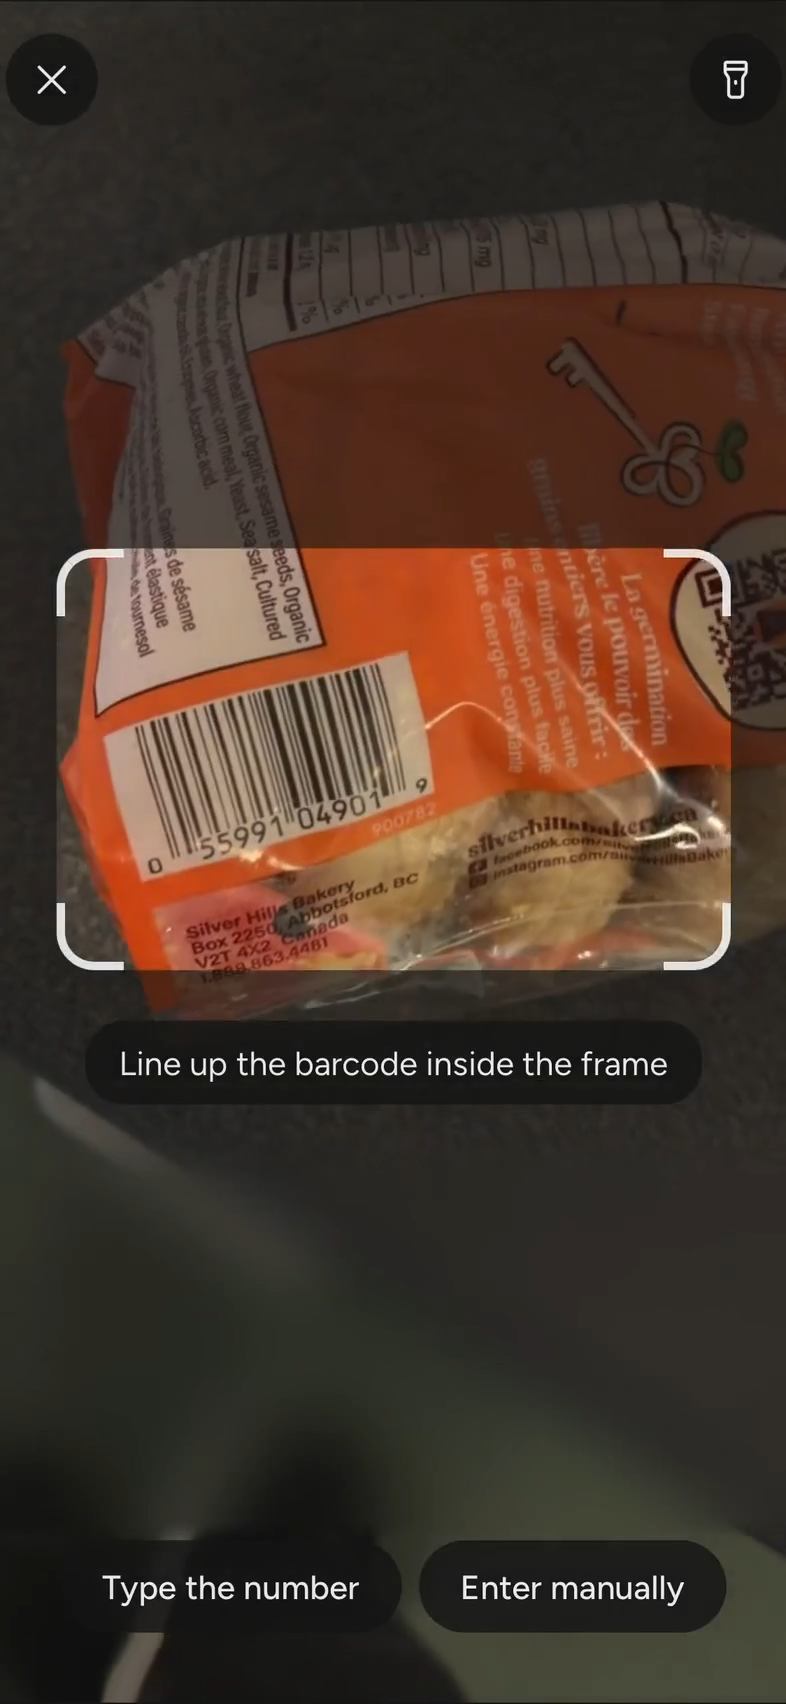
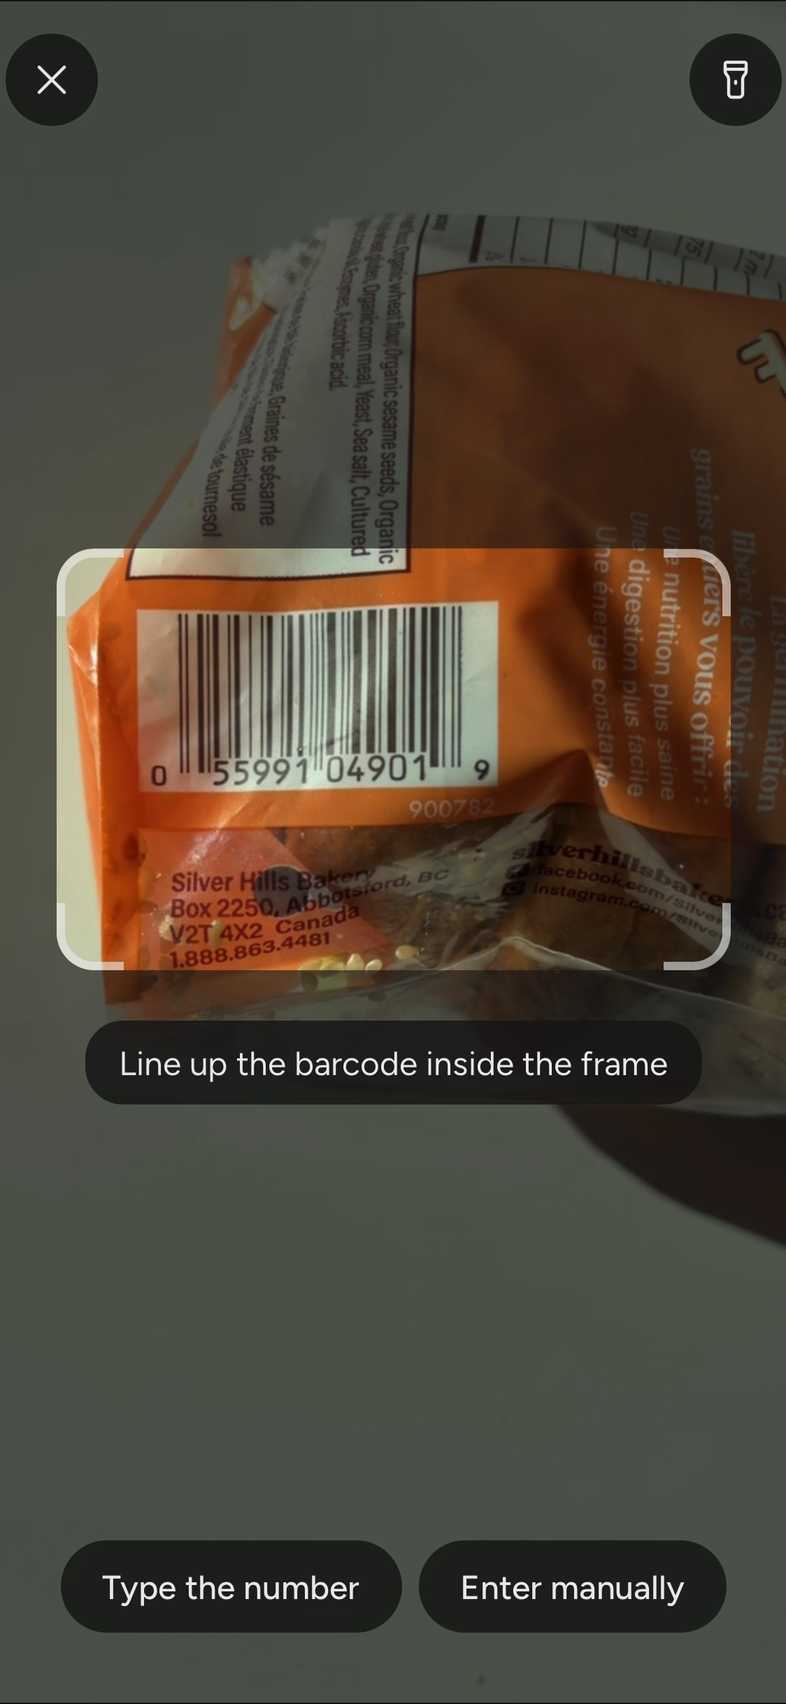
Scan step: frame from the Nov 25 re-recording

diff --git a/public/media/SOURCES.md b/public/media/SOURCES.md
@@ -10,7 +10,7 @@ an embedded text chunk (`impeccable embed-prompt --read <file>`).
 | `bitewise-loop-poster-{dark,light}.png` | Frame at 4.6 s of the loop videos (playback starts there) |
 | `bitewise-today-{dark,light}.png` | Frames at 5.0 s (dark tour) and 5.7 s (light tour with the real scan) |
 | `bitewise-swap-{dark,light}.png` | Frames at 25.3 s (dark tour) and 24.8 s (light tour) |
-| `bitewise-scan.png` | Frame at 60.8 s of `bitewise-demo-light-real-scan.mp4`: a real iPhone barcode scan, used in both themes |
+| `bitewise-scan.png` | Frame at 62.1 s of `bitewise-demo-light-real-scan.mp4` (the Nov 25 re-recording): a real iPhone barcode scan, used in both themes |
 | `bitewise-cost-{dark,light}.png` | Frames at 53.6 s (dark tour) and 53.7 s (light tour) |
 | `ascend-today-{dark,light}.png` | `habit-tracker/docs/screenshots/feature-3/today-mid-hold-*.png` (Playwright, 390 × 844 @3) |
 | `orbit-map-{dark,light}.png` | `network-crm/docs/screenshots/feature-5/map-*.png` (Playwright, 390 × 844 @3) |

diff --git a/plans/portfolio.md b/plans/portfolio.md
@@ -326,6 +326,8 @@ remove Niagara Parks, the Unity racing game and the Spotify display. Round 3: ke
    with the lookup sheet already open, which the design-critic rated its top issue; the scan
    step now uses the light recording's full-bleed camera frame in both themes, as in round 1.
    `bitewise-scan-dark.png` is removed; the light frame is `bitewise-scan.png` again.
+3. **A cleaner scan frame** (Dani): `bitewise-scan.png` is now the frame at 62.1 s of the Nov 25
+   re-recording of `bitewise-demo-light-real-scan.mp4`; its source note is re-embedded.
 
 ## Reviews
 
